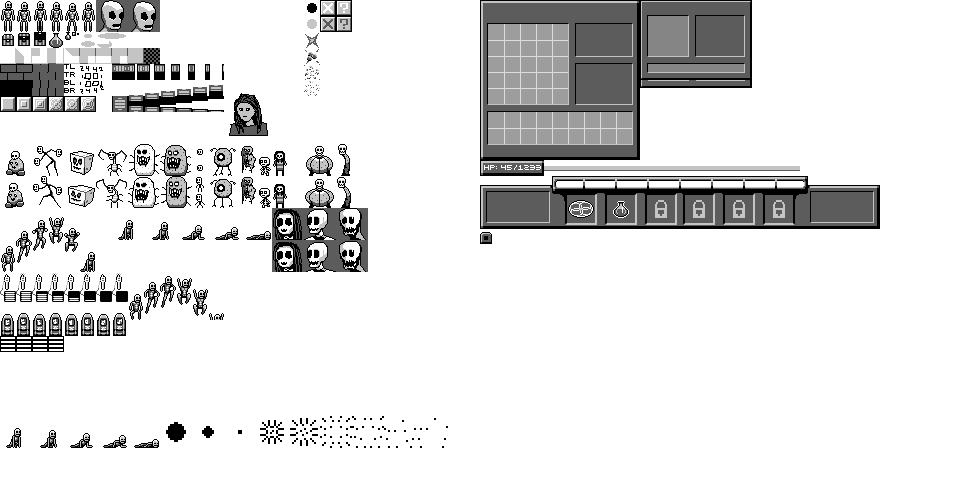
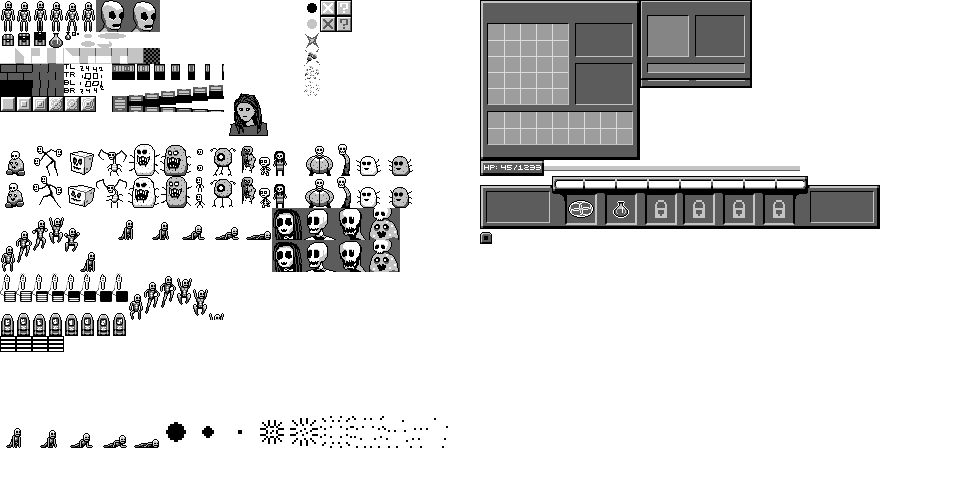
sadded small munchers that transform into big munchers

Changed region(s): [[0.375, 0.3125, 0.4375, 0.5625]]

diff --git a/src/game/enemies.py b/src/game/enemies.py
@@ -88,6 +88,15 @@ class EnemyTemplate:
     def can_drop_special_attack(self):
         return True
 
+    def show_death_explosion(self):
+        return True
+
+    def increment_kill_count_on_death(self):
+        return True
+
+    def can_attack(self):
+        return True
+
 
 class FlappumTemplate(EnemyTemplate):
 
@@ -136,13 +145,75 @@ class TrillaTemplate(EnemyTemplate):
         return []
 
 
+class SmallMuncherTemplate(EnemyTemplate):
+
+    def __init__(self, alt=False):
+        self._is_alt = alt
+        name = "Dark Muncher" if alt else "Muncher"
+        sprite = spriteref.enemy_muncher_small_alt_all if alt else spriteref.enemy_muncher_small_all
+        EnemyTemplate.__init__(self, name, sprite, spriteref.medium_shadow)
+
+    def get_pathfinding(self):
+        return PathfindingType.BASIC_CHASE
+
+    def get_base_stats(self):
+        base_stats = EnemyTemplate.get_base_stats(self)
+        base_stats[StatType.MOVEMENT_SPEED] -= 35
+        base_stats[StatType.VIT] = 1  # one hit kill
+        base_stats[StatType.LIFE_ON_HIT] = -500  # transforms upon successful attack
+        return base_stats
+
+    def special_death_action(self, level, entity, world):
+        base_stats = entity.state.get_base_stats()
+
+        base_stats[StatType.VIT] = EnemyTemplate.get_base_stats(self)[StatType.VIT]
+        base_stats[StatType.ATTACK_DAMAGE] += 35
+        base_stats[StatType.MOVEMENT_SPEED] += 65  # fast boys
+
+        template = TEMPLATE_MUNCHER_ALT if self._is_alt else TEMPLATE_MUNCHER
+        e_state = EnemyState(template, level, dict(base_stats))
+        e_state.set_special_attack(entity.state.special_attack)
+
+        new_muncher = Enemy(0, 0, e_state)
+        pos = entity.center()
+        new_muncher.set_center(pos[0], pos[1])
+        world.add(new_muncher, next_update=True)
+
+    def can_drop_special_attack(self):
+        return False
+
+    def get_loot(self, level, potential_attack=None):
+        return []
+
+    def show_death_explosion(self):
+        return False
+
+    def increment_kill_count_on_death(self):
+        return False
+
+
+class MuncherTemplate(EnemyTemplate):
+
+    def __init__(self, alt=False):
+        self._is_alt = alt
+        name = "Dark Muncher" if alt else "Muncher"
+        sprite = spriteref.enemy_muncher_alt_all if alt else spriteref.enemy_muncher_all
+        EnemyTemplate.__init__(self, name, sprite, spriteref.large_shadow)
+
+    def get_lunges(self):
+        return True
+
+
 TEMPLATE_TRILLA = TrillaTemplate()
 TEMPLATE_TRILLITE = EnemyTemplate("Trillite", spriteref.enemy_small_trilla_all, spriteref.medium_shadow)
 TEMPLATE_FLAPPUM = FlappumTemplate()
+TEMPLATE_MUNCHER = MuncherTemplate(alt=False)
+TEMPLATE_MUNCHER_ALT = MuncherTemplate(alt=True)
+TEMPLATE_MUNCHER_SMALL = SmallMuncherTemplate(alt=False)
+TEMPLATE_MUNCHER_SMALL_ALT = SmallMuncherTemplate(alt=True)
 
-RAND_SPAWN_TEMPLATES = [EnemyTemplate("Muncher", spriteref.enemy_muncher_all, spriteref.large_shadow),
-                        EnemyTemplate("Dark Muncher", spriteref.enemy_muncher_alt_all, spriteref.large_shadow),
-                        EnemyTemplate("Glorple", spriteref.enemy_glorple_all, spriteref.medium_shadow),
+RAND_SPAWN_TEMPLATES = [TEMPLATE_MUNCHER_SMALL,
+                        TEMPLATE_MUNCHER_SMALL_ALT,
                         EnemyTemplate("Dicel", spriteref.enemy_dicel_all, spriteref.medium_shadow),
                         EnemyTemplate("The Fallen", spriteref.enemy_the_fallen_all, spriteref.medium_shadow),
                         EnemyTemplate("Cycloi", spriteref.enemy_cyclops_all, spriteref.large_shadow),

diff --git a/src/game/actorstate.py b/src/game/actorstate.py
@@ -529,11 +529,16 @@ class EnemyState(ActorState):
         self.template.special_death_action(self.level(), entity, world)
 
         world.remove(entity)
-        splosion = AnimationEntity(entity.x(), entity.y() - 24,
-                                   spriteref.explosions, 40, spriteref.ENTITY_LAYER, scale=4)
-        splosion.set_color((0, 0, 0))
-        world.add(splosion)
-        gs.kill_count += 1
+
+        if self.template.show_death_explosion():
+            splosion = AnimationEntity(entity.x(), entity.y() - 24,
+                                       spriteref.explosions, 40,
+                                       spriteref.ENTITY_LAYER, scale=4)
+            splosion.set_color((0, 0, 0))
+            world.add(splosion)
+
+        if self.template.increment_kill_count_on_death():
+            gs.kill_count += 1
 
     def update(self, entity, world, gs, input_state):
         self.handle_floating_text(entity, world)
@@ -573,7 +578,8 @@ class EnemyState(ActorState):
 
                 if self.is_lunging():
                     move_dir = self._lunge_direction if self.lunge_progress() > 0.3 else (0, 0)
-                elif world.get_hidden_at(*entity.center()) or not self.is_aggro:
+                elif (world.get_hidden_at(*entity.center()) or not self.is_aggro
+                      or self.template.get_pathfinding() == PathfindingType.PASSIVE):
                     move_dir = IdleAI.get_move_dir(entity, self.movement_ai_state, world)
                 else:
                     move_dir = BasicChaseAI.get_move_dir(entity, self.movement_ai_state, world)
@@ -620,6 +626,7 @@ class EnemyState(ActorState):
     def _should_attack(self, entity, world):
         p = world.get_player()
         if (self.attack_state.can_attack() and
+                self.template.can_attack() and
                 self.is_aggro and
                 p is not None and
                 self.took_damage_x_ticks_ago >= self.damage_recoil and

diff --git a/src/game/spriteref.py b/src/game/spriteref.py
@@ -74,7 +74,9 @@ enemy_trilla_all = [make(32, 144, 32, 32), make(32, 176, 32, 32)]
 enemy_dicel_all = [make(64, 144, 32, 32), make(64, 176, 32, 32)]
 enemy_flappum_all = [make(96, 144, 32, 32), make(96, 176, 32, 32)]
 enemy_muncher_all = [make(128, 144, 32, 32), make(128, 176, 32, 32)]
+enemy_muncher_small_all = [make(352, 144, 32, 32), make(352, 176, 32, 32)]
 enemy_muncher_alt_all = [make(160, 144, 32, 32), make(160, 176, 32, 32)]
+enemy_muncher_small_alt_all = [make(384, 144, 32, 32), make(384, 176, 32, 32)]
 enemy_small_trilla_all = [make(192, 176 + i * 16, 16, 16) for i in range(0, 2)]
 enemy_cyclops_all = [make(208, 144 + i * 32, 32, 32) for i in range(0, 2)]
 enemy_the_fallen_all = [make(240, 144 + i * 32, 16, 32) for i in range(0, 2)]

diff --git a/src/attacks/attacks.py b/src/attacks/attacks.py
@@ -6,6 +6,7 @@ from src.game.stats import StatType
 
 
 class AttackState:
+
     def __init__(self):
         self.attack_tick = 0
 
@@ -101,7 +102,11 @@ class AttackState:
         if num_hit > 0:
             healing = stat_lookup.stat_value(StatType.LIFE_ON_HIT) * num_hit
             healing += stat_lookup.stat_value(StatType.LIFE_LEECH) * 0.01 * dmg_dealt
-            stat_lookup.do_heal(healing)
+            if healing >= 0:
+                stat_lookup.do_heal(healing)
+            else:
+                # negative healing stats damage you
+                stat_lookup.deal_damage(-healing)
 
     def _resolve_attack(self, attack, stat_lookup, source_pos, t_state, t_ent):
         """

diff --git a/src/ui/tooltips.py b/src/ui/tooltips.py
@@ -148,7 +148,8 @@ class EnemyInfoTooltip(TitleImageAndStatsTooltip):
         for stat_type in stat_map:
             if not isinstance(stat_type, StatType):
                 continue
-            stat_val = stat_map[stat_type] - enemies.TRUE_BASE_STATS[stat_type]
+            base_val = enemies.TRUE_BASE_STATS[stat_type] if stat_type in enemies.TRUE_BASE_STATS else 0
+            stat_val = stat_map[stat_type] - base_val
 
             if stat_val != 0:
                 stats.append(item.ItemStat(stat_type, stat_val))

diff --git a/src/world/entities.py b/src/world/entities.py
@@ -47,6 +47,10 @@ class Entity:
         
     def center(self):
         return self.rect.center
+
+    def set_center(self, cx, cy):
+        self.set_x(cx - self.w() / 2)
+        self.set_y(cy - self.h() / 2)
         
     def set_x(self, x):
         self._x = x
